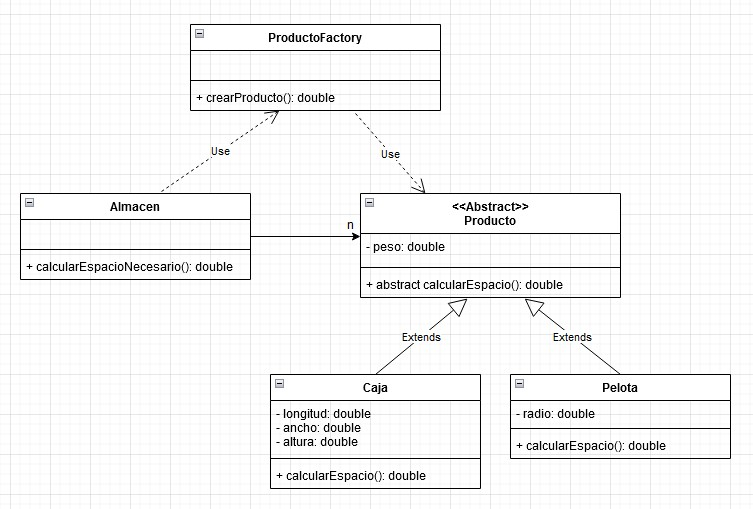
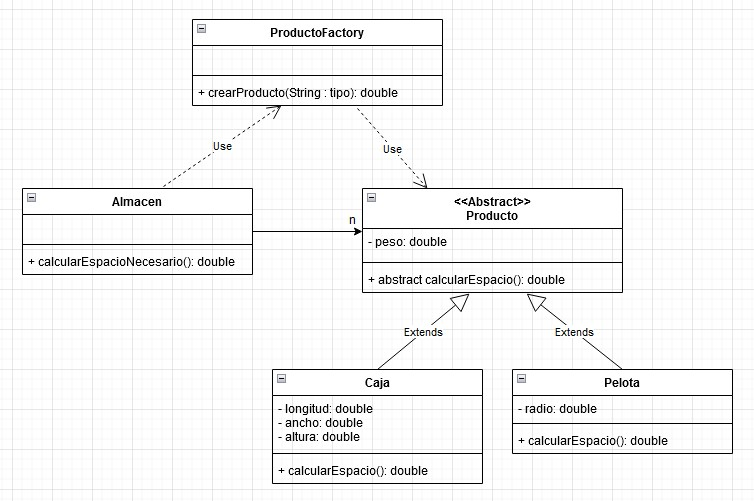
tercera correccion al UML 31 y el ejercicio esta hecho en su mayor parte

diff --git a/Ejercicio-31/src/FactoryYSingleton2/Caja.java b/Ejercicio-31/src/FactoryYSingleton2/Caja.java
@@ -1,4 +1,36 @@
 package FactoryYSingleton2;
 
-public class Caja {
+public class Caja extends Producto{
+    private double longitud;
+    private double ancho;
+    private double altura;
+
+    public double getLongitud() {
+        return longitud;
+    }
+
+    public void setLongitud(double longitud) {
+        this.longitud = longitud;
+    }
+
+    public double getAncho() {
+        return ancho;
+    }
+
+    public void setAncho(double ancho) {
+        this.ancho = ancho;
+    }
+
+    public double getAltura() {
+        return altura;
+    }
+
+    public void setAltura(double altura) {
+        this.altura = altura;
+    }
+
+    @Override
+    public double calcularEspacio() {
+        return 0;
+    }
 }

diff --git a/Ejercicio-31/src/FactoryYSingleton2/ProductoFactory.java b/Ejercicio-31/src/FactoryYSingleton2/ProductoFactory.java
@@ -1,4 +1,21 @@
 package FactoryYSingleton2;
 
 public class ProductoFactory {
+
+    private static ProductoFactory instance = null;
+
+    private ProductoFactory() {
+
+    }
+
+    public static ProductoFactory getInstance() {
+        if (instance == null) {
+            instance = new ProductoFactory();
+        }
+        return instance;
+    }
+
+    public Producto crearProducto(String tipo):
+
+
 }

diff --git a/Ejercicio-31/src/FactoryYSingleton2/Pelota.java b/Ejercicio-31/src/FactoryYSingleton2/Pelota.java
@@ -1,4 +1,19 @@
 package FactoryYSingleton2;
 
-public class Pelota {
+public class Pelota extends Producto{
+
+    private double radio;
+
+    public double getRadio() {
+        return radio;
+    }
+
+    public void setRadio(double radio) {
+        this.radio = radio;
+    }
+
+    @Override
+    public double calcularEspacio() {
+        return 0;
+    }
 }

diff --git a/Ejercicio-31/src/FactoryYSingleton2/Almacen.java b/Ejercicio-31/src/FactoryYSingleton2/Almacen.java
@@ -7,6 +7,14 @@ public class Almacen {
     List<Producto> productos = new ArrayList<>();
 
     public double calcularEspacioNecesario(){
-        
+        return 0.0;
+    }
+
+    public List<Producto> getProductos() {
+        return productos;
+    }
+
+    public void setProductos(List<Producto> productos) {
+        this.productos = productos;
     }
 }

diff --git a/Ejercicio-31/src/FactoryYSingleton2/Producto.java b/Ejercicio-31/src/FactoryYSingleton2/Producto.java
@@ -1,4 +1,17 @@
 package FactoryYSingleton2;
 
 public abstract class Producto {
+    private double peso;
+
+
+
+    public abstract double calcularEspacio();
+
+    public double getPeso() {
+        return peso;
+    }
+
+    public void setPeso(double peso) {
+        this.peso = peso;
+    }
 }
